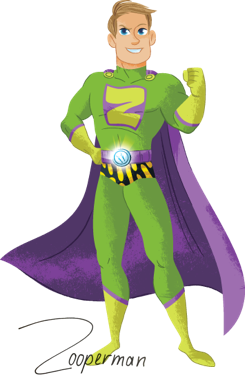
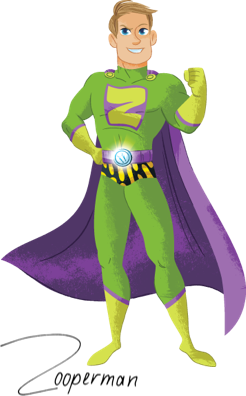
responsive

diff --git a/css/main.css b/css/main.css
@@ -68,12 +68,11 @@ body {
     position: absolute;
     top: -42px;
     right: -28px;
-
 }
 
 .sig {
     position: absolute;
-    top: 68px;
+    top: 43px;
     right: 130px;
 }
 
@@ -88,7 +87,57 @@ body {
 
 
 
+/* Large desktop */
+@media (min-width: 1200px) { 
 
+}
+
+
+@media (min-width: 980px) and (max-width: 1199px) {
+    .sig {
+        position: absolute;
+        top: 100px;
+        right: 28px;
+    }
+
+
+}
+
+
+/* Portrait tablet to landscape and desktop */
+@media (min-width: 768px) and (max-width: 979px) {
+    .sig {
+        position: absolute;
+        top: 249px;
+        right: 28px;
+    }
+
+
+}
+
+/* Landscape phone to portrait tablet */
+@media (max-width: 767px) {
+    .sig {
+        display:none;
+    }
+    .fighting-ext {
+    position: absolute;
+    top: -392px;
+    right: -28px;
+}
+}
+
+/* Landscape phones and down */
+@media (max-width: 480px) {
+    .sig {
+        display:none;
+    }
+    .fighting-ext {
+    position: absolute;
+    top: -552px;
+    right: -28px;
+}
+}
 
 
 

diff --git a/index.php b/index.php
@@ -37,7 +37,7 @@
       <div class="cert">
       <!-- Example row of columns -->
       <div class="row">
-        <div class="col-xs-8">
+        <div class="col-sm-8">
           <h1>Gorilla Phone Challenge</h1>
           <p class="congrats">Congratulations Extinction Fighter</p>
           <p class="name"><?php echo $_GET["n"];?> &ldquo;<?php echo $_GET["s"];?>&rdquo;</p>
@@ -46,14 +46,14 @@
           <p class="txt">Every phone you recycle helps us Fight Extinction and save wild gorillas!</p>
 
         </div>
-        <div class="col-xs-4">
+        <div class="col-sm-4">
             <div class="fighting-ext">
             <img src="img/fighting-ext.png">
             </div>
 
 
             <div class="sig"> 
-            <img src="img/zooperman.png">
+            <img src="img/zooperman.png" class="img-responsive">
             </div>
 
         </div>  
